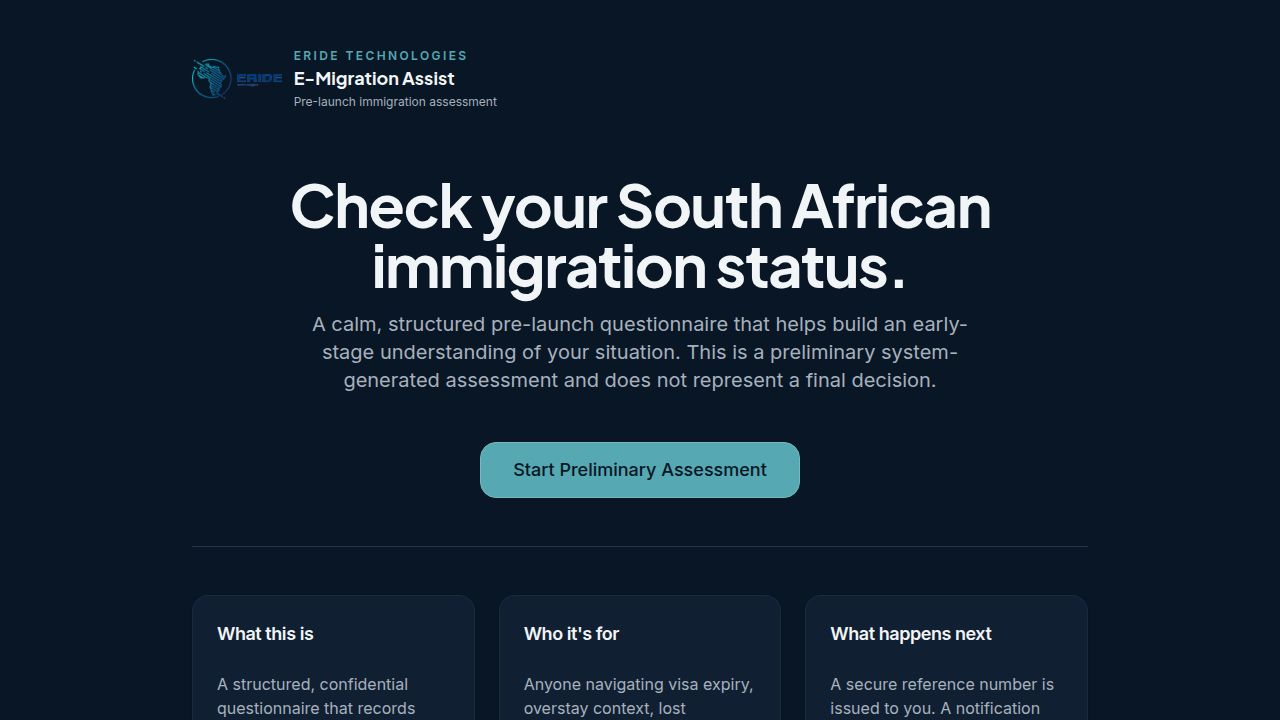
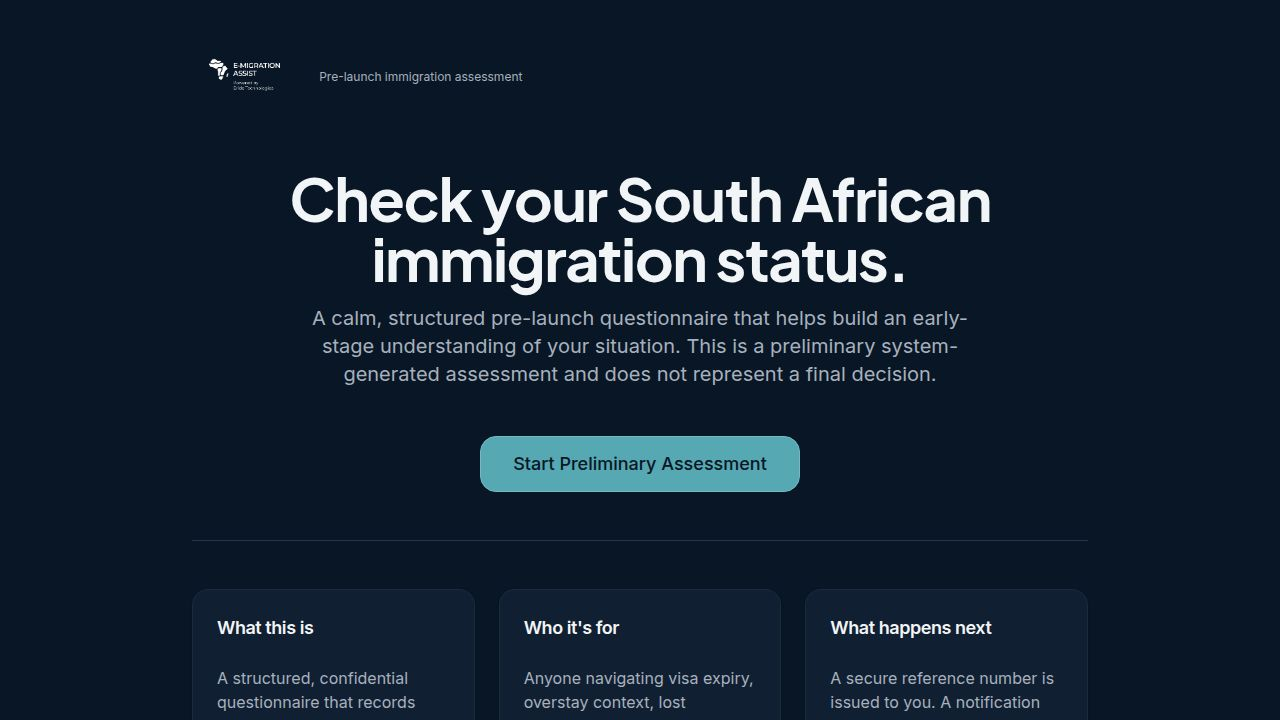
Published your App
Replit-Commit-Author: Deployment
Replit-Commit-Session-Id: 0177904f-b747-4dd9-a075-5a637645cb89
Replit-Commit-Checkpoint-Type: full_checkpoint
Replit-Commit-Event-Id: 5db0a25e-8b44-492a-ac3d-ea3d021cc637
Replit-Commit-Screenshot-Url: https://storage.googleapis.com/screenshot-production-us-central1/a30823e0-2ce8-41ab-a45d-1ba7f07cedc0/0177904f-b747-4dd9-a075-5a637645cb89/f5y7MZ8
Replit-Commit-Deployment-Build-Id: 05bd516e-a880-42af-8e47-0715cd92ba1f
Replit-Helium-Checkpoint-Created: true

diff --git a/artifacts/emigration-assist/src/components/dashboard-greeting.tsx b/artifacts/emigration-assist/src/components/dashboard-greeting.tsx
@@ -1,0 +1,119 @@
+import { useEffect, useState } from "react";
+import { useAdminAuth } from "@/lib/adminAuth";
+
+// SAST never observes daylight saving — Africa/Johannesburg is a stable
+// UTC+02:00. We still pin the IANA zone (rather than hard-coding +02:00)
+// so the formatter stays correct even if a future operator's machine has
+// the wrong system clock or locale.
+const SAST_ZONE = "Africa/Johannesburg";
+
+const dateFmt = new Intl.DateTimeFormat("en-ZA", {
+  weekday: "long",
+  day: "numeric",
+  month: "long",
+  year: "numeric",
+  timeZone: SAST_ZONE,
+});
+
+const timeFmt = new Intl.DateTimeFormat("en-ZA", {
+  hour: "2-digit",
+  minute: "2-digit",
+  hour12: false,
+  timeZone: SAST_ZONE,
+});
+
+// Hour bucket → greeting copy. Boundaries chosen to feel natural for an
+// internal SaaS dashboard:
+//   05:00 – 11:59 → morning
+//   12:00 – 16:59 → afternoon
+//   17:00 – 21:59 → evening
+//   22:00 – 04:59 → night (covers the after-hours operator)
+function greetingForHour(hourSast: number): string {
+  if (hourSast >= 5 && hourSast < 12) return "Good morning";
+  if (hourSast >= 12 && hourSast < 17) return "Good afternoon";
+  if (hourSast >= 17 && hourSast < 22) return "Good evening";
+  return "Working late";
+}
+
+// Returns the current local hour as observed in SAST. We do this via the
+// formatter (rather than `new Date().getHours()` which would use the
+// browser's timezone) so the greeting matches the date/time strip below
+// even when the operator is travelling.
+function sastHour(d: Date): number {
+  const parts = new Intl.DateTimeFormat("en-ZA", {
+    hour: "2-digit",
+    hour12: false,
+    timeZone: SAST_ZONE,
+  }).formatToParts(d);
+  const hh = parts.find((p) => p.type === "hour")?.value ?? "0";
+  return parseInt(hh, 10);
+}
+
+// Pull a presentable first name from the signed-in admin profile. Falls
+// back to the local-part of the email if there's no displayName, and finally
+// to "there" so the greeting always reads naturally.
+function firstNameOf(
+  user: { displayName: string | null; email: string } | null,
+): string {
+  if (!user) return "there";
+  if (user.displayName) {
+    const trimmed = user.displayName.trim();
+    if (trimmed.length > 0) return trimmed.split(/\s+/)[0]!;
+  }
+  const local = user.email.split("@")[0] ?? "";
+  if (local.length === 0) return "there";
+  // "demo.admin" → "Demo", "alice_smith" → "Alice"
+  const piece = local.split(/[._-]/)[0]!;
+  return piece.charAt(0).toUpperCase() + piece.slice(1);
+}
+
+/**
+ * Personalised greeting strip for the admin dashboard. Renders the
+ * time-of-day greeting + signed-in operator's first name on the top line,
+ * and a live-ticking "Wednesday, 7 May 2026 · 09:42 SAST" subline below.
+ *
+ * The clock re-renders once per minute (cheap setInterval) — minute-level
+ * granularity is more than enough for an internal CRM and avoids the
+ * battery hit of a 1Hz tick that nobody notices.
+ */
+export function DashboardGreeting() {
+  const { user } = useAdminAuth();
+  const [now, setNow] = useState<Date>(() => new Date());
+
+  useEffect(() => {
+    // Align the first tick to the next wall-clock minute boundary so that
+    // when "09:42" rolls to "09:43" the UI flips within ~1 second of the
+    // real change instead of drifting up to 60s out of step.
+    const msToNextMinute = 60_000 - (Date.now() % 60_000);
+    let interval: ReturnType<typeof setInterval> | undefined;
+    const align = setTimeout(() => {
+      setNow(new Date());
+      interval = setInterval(() => setNow(new Date()), 60_000);
+    }, msToNextMinute);
+    return () => {
+      clearTimeout(align);
+      if (interval) clearInterval(interval);
+    };
+  }, []);
+
+  const greeting = greetingForHour(sastHour(now));
+  const firstName = firstNameOf(user);
+  return (
+    <div data-testid="dashboard-greeting">
+      <h1 className="text-3xl font-display font-bold">
+        {greeting}, {firstName}
+      </h1>
+      <p
+        className="text-muted-foreground text-sm mt-1"
+        data-testid="dashboard-clock"
+      >
+        <span className="font-medium text-foreground/80">
+          {dateFmt.format(now)}
+        </span>
+        <span className="mx-2 opacity-60">·</span>
+        <span className="tabular-nums">{timeFmt.format(now)}</span>
+        <span className="ml-1 opacity-70">SAST</span>
+      </p>
+    </div>
+  );
+}

diff --git a/artifacts/emigration-assist/src/components/brand-header.tsx b/artifacts/emigration-assist/src/components/brand-header.tsx
@@ -29,12 +29,17 @@ export function BrandHeader({
         <img
           src={brandLogo}
           alt="E-Migration Assist · Powered by eRide Technologies"
-          className="h-14 w-auto transition-opacity group-hover:opacity-90"
+          className="h-20 sm:h-24 w-auto transition-opacity group-hover:opacity-90"
           // Source asset is black on transparent; flip to pure white so it
           // sits cleanly on the dark navy background. `brightness(0)` first
           // collapses every non-transparent pixel to black, `invert(1)`
           // then maps black → white while leaving transparency untouched.
-          style={{ filter: "brightness(0) invert(1)" }}
+          // The drop-shadow gives the thin tagline strokes inside the PNG a
+          // little contrast halo so they stay legible at small sizes.
+          style={{
+            filter:
+              "brightness(0) invert(1) drop-shadow(0 1px 2px rgba(0,0,0,0.45))",
+          }}
           data-testid="brand-logo"
         />
         {variant === "default" ? (

diff --git a/artifacts/emigration-assist/src/pages/admin.tsx b/artifacts/emigration-assist/src/pages/admin.tsx
@@ -41,6 +41,7 @@ import { Badge } from "@/components/ui/badge";
 import { Skeleton } from "@/components/ui/skeleton";
 import { BrandHeader } from "@/components/brand-header";
 import { AdminUserMenu } from "@/components/admin-user-menu";
+import { DashboardGreeting } from "@/components/dashboard-greeting";
 import { Button } from "@/components/ui/button";
 import {
   Select,
@@ -584,13 +585,7 @@ export function Admin() {
       <div className="max-w-7xl mx-auto space-y-8">
         <BrandHeader variant="compact" rightSlot={<AdminUserMenu />} />
         <header className="flex flex-col md:flex-row md:items-end md:justify-between gap-4">
-          <div>
-            <h1 className="text-3xl font-display font-bold">Lead Dashboard</h1>
-            <p className="text-muted-foreground">
-              Pre-launch lead monitoring tool. Internal use only — manage
-              status and priority directly from the table.
-            </p>
-          </div>
+          <DashboardGreeting />
           <div className="flex flex-col sm:flex-row gap-2">
             <Button
               variant="outline"